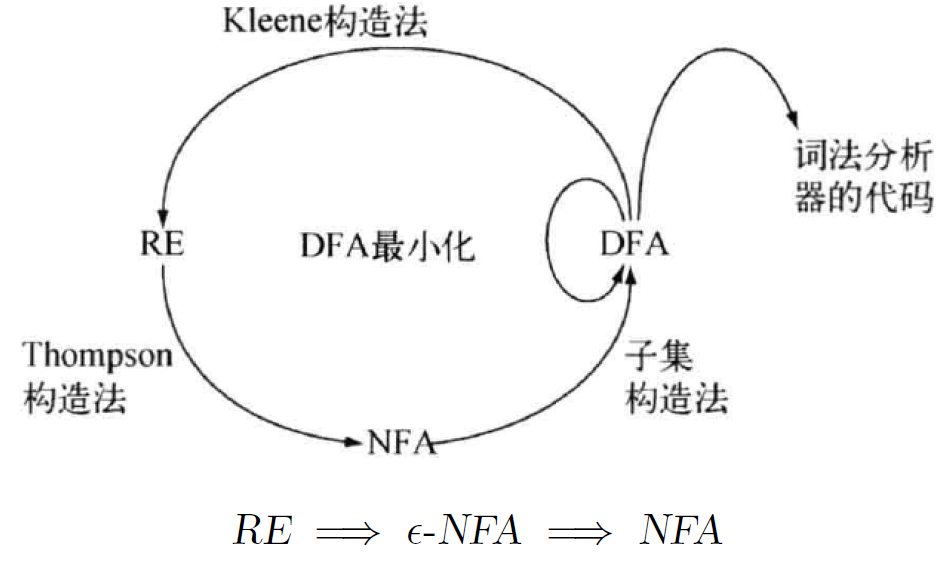
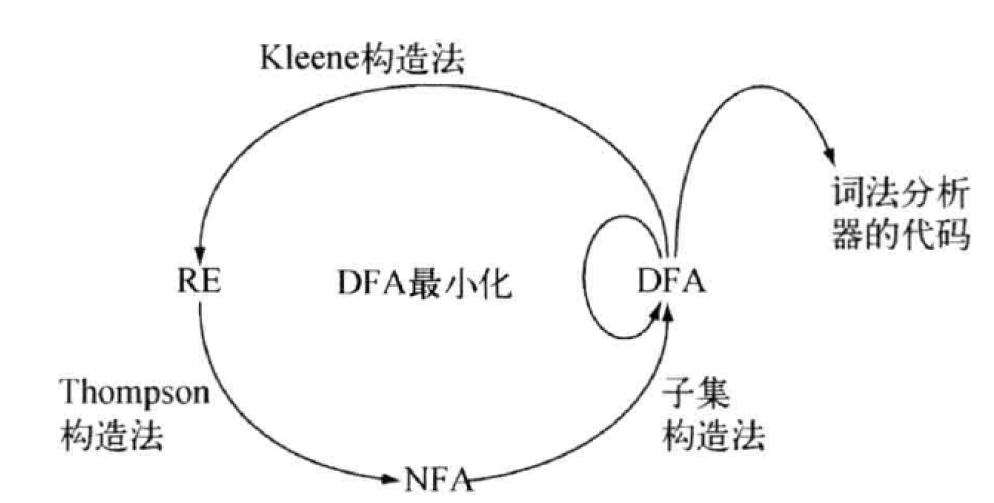
update lexer & parser

diff --git a/Lecture2-Lexer.md b/Lecture2-Lexer.md
@@ -514,6 +514,10 @@ $$
 ## 2.5. 目标: 正则表达式RE => 词法分析器
 ![](img/lec2/27.png)
 
+$$
+RE \Rightarrow \epsilon-NFA \Rightarrow NFA
+$$ 
+
 > 终点固然令人向往, 这一路上的风景更是美不胜收
 
 ### 2.5.1. NFA(Nondeteministic Finite Automaton)定义
@@ -660,7 +664,7 @@ $$
 #### 2.6.1.8. 根据正则表达式构造状态机
 ![](img/lec2/41.png)
 
-### 2.6.2. NFA转换为DFA
+### 2.6.2. 第二步：NFA转换为DFA
 ![](img/lec2/27.png)
 
 $$
@@ -790,3 +794,120 @@ $$
 
 1. 我们根据上面式子进行划分，而非合并
 2. 那么我们从哪里开始呢？
+
+$$
+\prod = {F, S \ F} \\
+接受状态与非接受状态必定不等价 \\
+空串\epsilon区分了这两类状态 \\
+$$
+
+![](img/lec2/51.png)
+
+#### 2.6.3.2. DFA最小化等价状态划分方法
+![](img/lec2/52.png)
+
+$$
+\prod = {F, S \ F} \\
+$$
+
+1. 直到再也无法**划分**为止(不动点!)
+2. 然后, 将同一等价类里的状态**合并**
+3. 如何分析DFA最小化算法的复杂度?
+4. 为什么DFA最小化算法是正确的?
+5. 最小化DFA 是唯一的吗?
+
+### 2.6.4. 第四步：DFA到RE
+![](img/lec2/27.png)
+
+$$
+DFA \Rightarrow RE \\
+D \Rightarrow r \\
+要求: L(r) = L(D) \\
+$$
+
+![](img/lec2/53.png)
+
+$$
+L(D) = {x|\exist f\in F_D. d_0 \xrightarrow{x} f}\\
+r =|_{x\in L(D)} x \\
+$$
+
+1. 字符串x对应于有向图中的路径
+2. 求有向图中所有(从初始状态到接受状态的) 路径
+3. **但是, 如果有向图中含有环, 则存在无穷多条路径**
+4. **不要怕, 我们有Kleene闭包**
+5. 假设有向图中节点编号为0(**初始状态**)到n − 1
+6. R^k_{ij}:从节点i到节点j、且**中间节点**编号**不大于k**的所有路径
+
+![](img/lec2/54.png)
+
+$$
+R_{ij}^k = R_{ik}^{k-1}(R_{kk}^{k-1}^*R_{ij}^{k-1})
+$$
+
+1. Q : 如何初始化?
+2. $R_{ij}^{-1}$：从节点i 到节点j、且不经过中间节点的所有路径
+
+![](img/lec2/55.png)
+
+1. 关于$\emptyset$ (注意: 它不是正则表达式) 的规定
+
+$$
+\emptyset r = r \emptyset = \emptyset \\
+\emptyset | r = r
+$$
+
+1. Q : r 的最终结果是什么?
+2. 求有向图中所有(从初始状态到接受状态的) 路径
+
+$$
+r =|_{s_j\in F_D}R_{oj}^{|S_D|-1}
+$$
+
+![](img/lec2/56.png)
+
+1. $|D|$:状态树($|S_D|$)
+2. $D_A$:接受状态集合$F_D$
+
+![](img/lec2/57.png)
+![](img/lec2/58.png)
+![](img/lec2/59.png)
+![](img/lec2/60.png)
+
+### 2.6.5. 第五步：DFA到词法分析器
+![](img/lec2/27.png)
+
+1. 特定于词法分析器的最小化方法
+
+![](img/lec2/61.png)
+
+2. 根据正则表达式构造相应的NFA
+
+![](img/lec2/62.png)
+
+3. 合并这三个NFA,构造$a|abb|a^∗b^+$对应的NFA
+
+![](img/lec2/63.png)
+
+4. 使用子集构造法将NFA转换为DF(并消除死状态$\emptyset$)
+
+![](img/lec2/64.png)
+
+5. 注意:要保留各个NFA的**接受状态**信息,并采用**最前优先匹配**原则
+6. 模拟运行该DFA,**直到无法继续为止**(输入结束或状态无转移);假设此时状态为s
+7. 若s为接受状态,则识别成功;
+8. 否则,**回溯**(包括状态与输入流)至最近一次经过的接受状态,识别成功;若没有经过任何接受状态,则**报错**(忽略第一个字符)
+9. 无论成功还是失败,都从**初始状态**开始继续识别下一个词法单元
+
+![](img/lec2/65.png)
+
+1. x=a输入结束;接受;识别出a
+2. x=abba状态无转移;接受;识别出abb
+3. x=aaaa输入结束;回溯成功;识别出a
+4. x=cabb状态无转移;回溯失败;报错c
+
+- 特定于词法分析器的DFA最小化方法
+
+1. 初始划分需要考虑不同的**词法单元**
+2. $\prod_0$={{0137,7},{247},{8,58},{68}}
+3. $\prod_1$={{0137},{7},{247},{8},{58},{68}}

diff --git a/Lecture3-Parser.md b/Lecture3-Parser.md
@@ -1,0 +1,5 @@
+Lecture3-Parser
+---
+
+1. **输入**:程序文本/字符串s & 词法单元(token) 的规约
+2. **输出**:词法单元流
